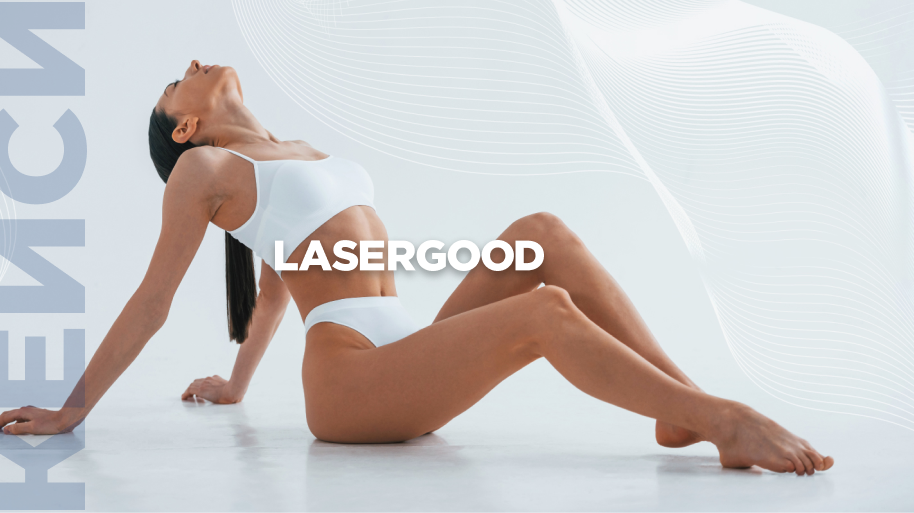
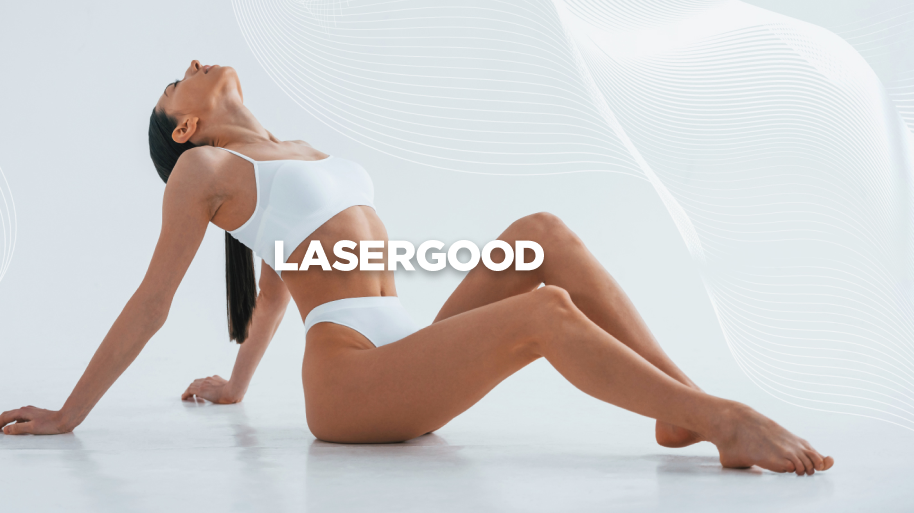
some changes

Changed region(s): [[0.0, 0.2183, 0.1225, 0.9981], [0.0, 0.0, 0.0919, 0.1871]]

diff --git a/src/views/FirstPage.vue b/src/views/FirstPage.vue
@@ -144,7 +144,8 @@
     <div class="first-page-content">
       <div class="first-page">
         <div class="upper-content__container">
-          <img class="main-img" src="../images/mosaic2.png" alt="mosaic2" />
+          <div class="main-img"></div>
+
           <img
             src="../images/mosaicpart.png"
             alt="mosaicpart"
@@ -159,8 +160,11 @@
             />
             <button class="callback-button">ЗАМОВИТИ ДЗВіНОК</button>
           </div>
-
-          <div class="left-section">
+        </div>
+        <img src="../images/cases.png" alt="cases" class="cases" />
+        <img src="../images/services.png" alt="services" class="services" />
+        <div class="left-section">
+          <div class="left-section__upper">
             <div class="upper-row">
               <img
                 src="../images/lasergood.png"
@@ -180,18 +184,14 @@
                 class="uniclinic"
               />
             </div>
+          </div>
+          <div class="left-section__middle">
             <div class="middle-row">
               <img
-                src="../images/services.png"
-                alt="services"
-                class="services"
-              />
-              <img
                 src="../images/services-marketing.png"
-                alt="services-marketing"
-                class="services-marketing"
+                alt="marketing"
+                class="marketing"
               />
-
               <img
                 src="../images/analytics.png"
                 alt="analytics"
@@ -633,9 +633,9 @@ export default {
 
 .bricks-frame {
   position: absolute;
-  left: 0.7rem;
-  top: 0.7rem;
-  width: 3rem;
+  left: 0.9rem;
+  top: 0.9rem;
+  width: 3.85rem;
   z-index: 802;
 }
 .bricks-frame:hover {
@@ -879,26 +879,28 @@ export default {
 }
 
 .main-img {
+  background-image: url("../images/mosaic2.png");
   width: 76rem;
   z-index: 1; /* Убедитесь, что z-index у main-img ниже, чем у изображений в left-section */
-  position: relative;
+  position: sticky;
+  top: 0;
 }
 
 .mosaic-part {
   position: absolute;
-  top: 2.5rem;
-  left: 4rem;
-  width: 30%;
+  top: 3rem;
+  left: 5rem;
+  width: 56rem;
   z-index: 1;
 }
 
 .callback__container {
   position: absolute;
-  bottom: 10rem;
-  left: 1rem;
+  bottom: 0.5rem;
+  left: 7rem;
   display: flex;
   flex-direction: row;
-  gap: 1rem;
+  gap: 1.5rem;
   padding: 1rem;
   z-index: 20;
 }
@@ -934,9 +936,12 @@ export default {
 }
 
 .first-page-content {
+  position: relative;
+  display: flex;
+  flex-direction: column;
   width: 100%;
   height: calc(100vh - 4rem);
-  box-sizing: border-box; /* Убедитесь, что padding и border учитываются в общих размерах */
+  box-sizing: border-box;
 }
 
 .first-page {
@@ -949,43 +954,75 @@ export default {
 .left-section {
   display: flex;
   flex-direction: column;
+  gap: 0;
   width: 100%;
-  height: 76vh;
+  height: 82.45vh;
+  position: relative;
+}
+
+.left-section__upper,
+.left-section__middle {
+  display: flex;
+  justify-content: center;
+  width: 100%;
+  position: absolute;
+}
+
+.left-section__upper {
+  top: 0;
+  left: 70rem;
+  height: 57.69vh;
+  white-space: nowrap;
+}
+
+.left-section__middle {
+  top: 33.1rem;
+  left: 45rem;
+  height: 25vh;
+  overflow-x: hidden;
+  white-space: nowrap;
+  margin-top: -4px;
+}
+
+.left-section__upper img,
+.left-section__middle img {
+  max-width: 100%;
+  width: auto;
+  height: auto;
+  object-fit: contain;
+  flex-shrink: 0;
+  flex-grow: 0;
   z-index: 300;
 }
 
-.left-section img {
-  z-index: 300; /* Убедитесь, что z-index выше, чем у main-img */
-  position: relative; /* Убедитесь, что position установлен на relative */
-}
-
 .upper-content__container {
+  position: fixed;
   display: flex;
   flex-direction: row;
   gap: 0;
-  height: 76vh;
-  overflow-x: hidden; /* Добавлено для горизонтальной прокрутки */
-  white-space: nowrap; /* Добавлено для предотвращения переноса строк */
+  height: 82.45vh;
+  overflow-x: hidden;
+  white-space: nowrap;
 }
 
 .upper-row {
+  position: relative;
+  bottom: 0;
   display: flex;
   flex-direction: row;
   justify-content: start;
-  height: 43.5vh;
   gap: 0;
-  overflow-x: hidden; /* Добавлено для горизонтальной прокрутки */
-  white-space: nowrap; /* Добавлено для предотвращения переноса строк */
+  overflow-x: hidden;
+  white-space: nowrap;
   z-index: 300;
 }
 
 .middle-row {
   position: relative;
   display: flex;
-  height: 32.9vh;
   gap: 0;
-  overflow-x: hidden; /* Добавлено для горизонтальной прокрутки */
-  white-space: nowrap; /* Добавлено для предотвращения переноса строк */
+  overflow-x: hidden;
+  white-space: nowrap;
   z-index: 300;
 }
 
@@ -994,24 +1031,36 @@ export default {
   max-width: 100%;
   width: auto;
   height: auto;
-  object-fit: contain; /* или object-fit: cover в зависимости от ваших требований */
+  object-fit: contain;
   flex-shrink: 0;
   flex-grow: 0;
   z-index: 300;
 }
 
+.cases {
+  position: fixed;
+  height: 32.5rem;
+  z-index: 301;
+  left: 70.2rem;
+  bottom: 24.4rem;
+}
+
 .services {
-  position: absolute;
-  height: 100%;
+  position: fixed;
+  height: 14rem;
+  z-index: 301;
+  left: 45rem;
+  bottom: 10rem;
 }
 
 .services-content__container {
+  position: absolute;
+  bottom: 0;
   display: flex;
   gap: 0;
-  height: 17.5%;
   z-index: 2;
-  overflow-x: hidden; /* Добавлено для горизонтальной прокрутки */
-  white-space: nowrap; /* Добавлено для предотвращения переноса строк */
+  overflow-x: hidden;
+  white-space: nowrap;
   z-index: 300;
 }
 
@@ -1020,9 +1069,9 @@ export default {
   flex-direction: row;
   justify-content: space-between;
   width: 100%;
-  height: 9.3rem;
-  overflow-x: hidden; /* Добавлено для горизонтальной прокрутки */
-  white-space: nowrap; /* Добавлено для предотвращения переноса строк */
+  height: 6rem;
+  overflow-x: hidden;
+  white-space: nowrap;
   z-index: 300;
 }
 .lower-row--image_1 {
